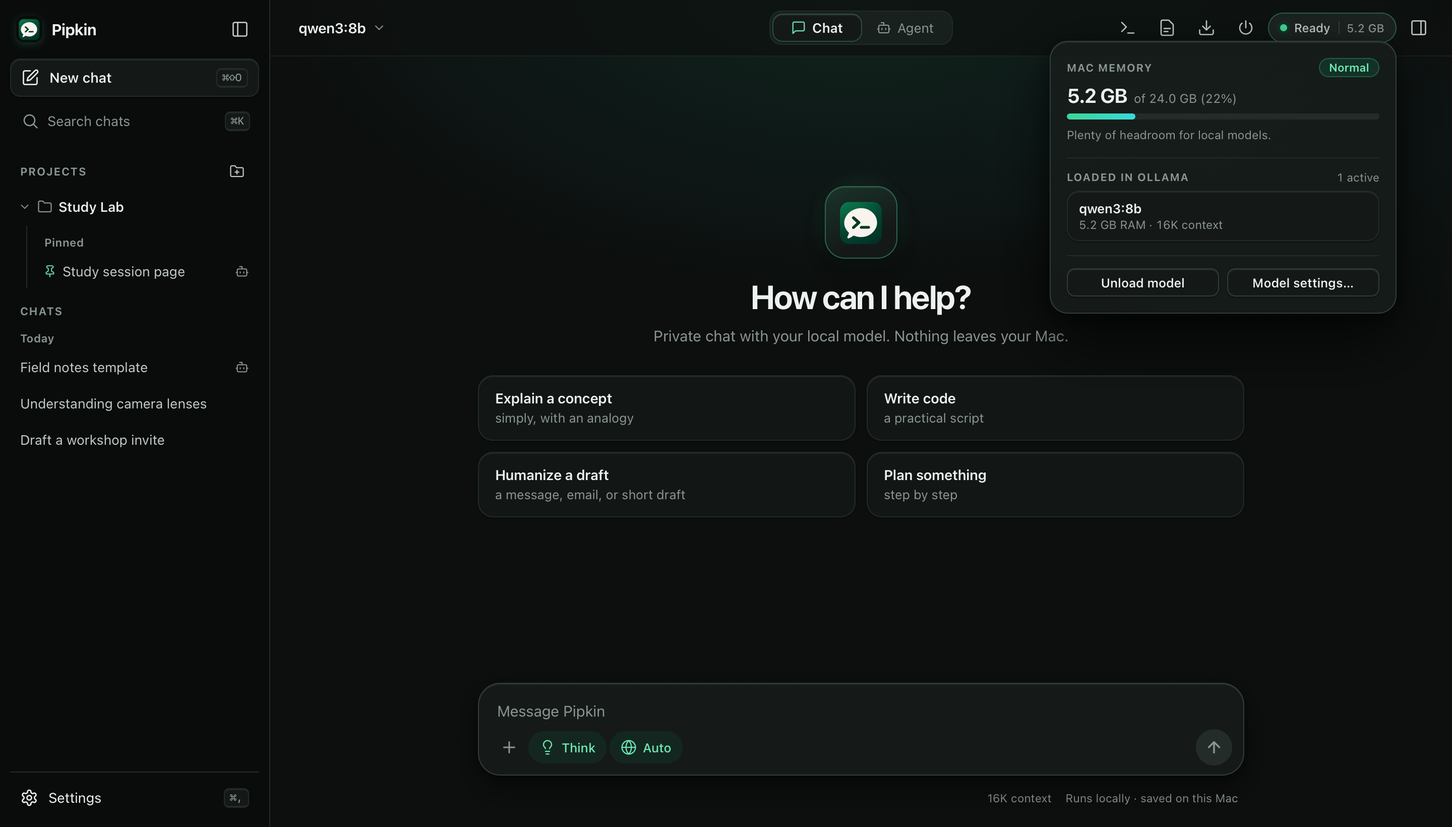
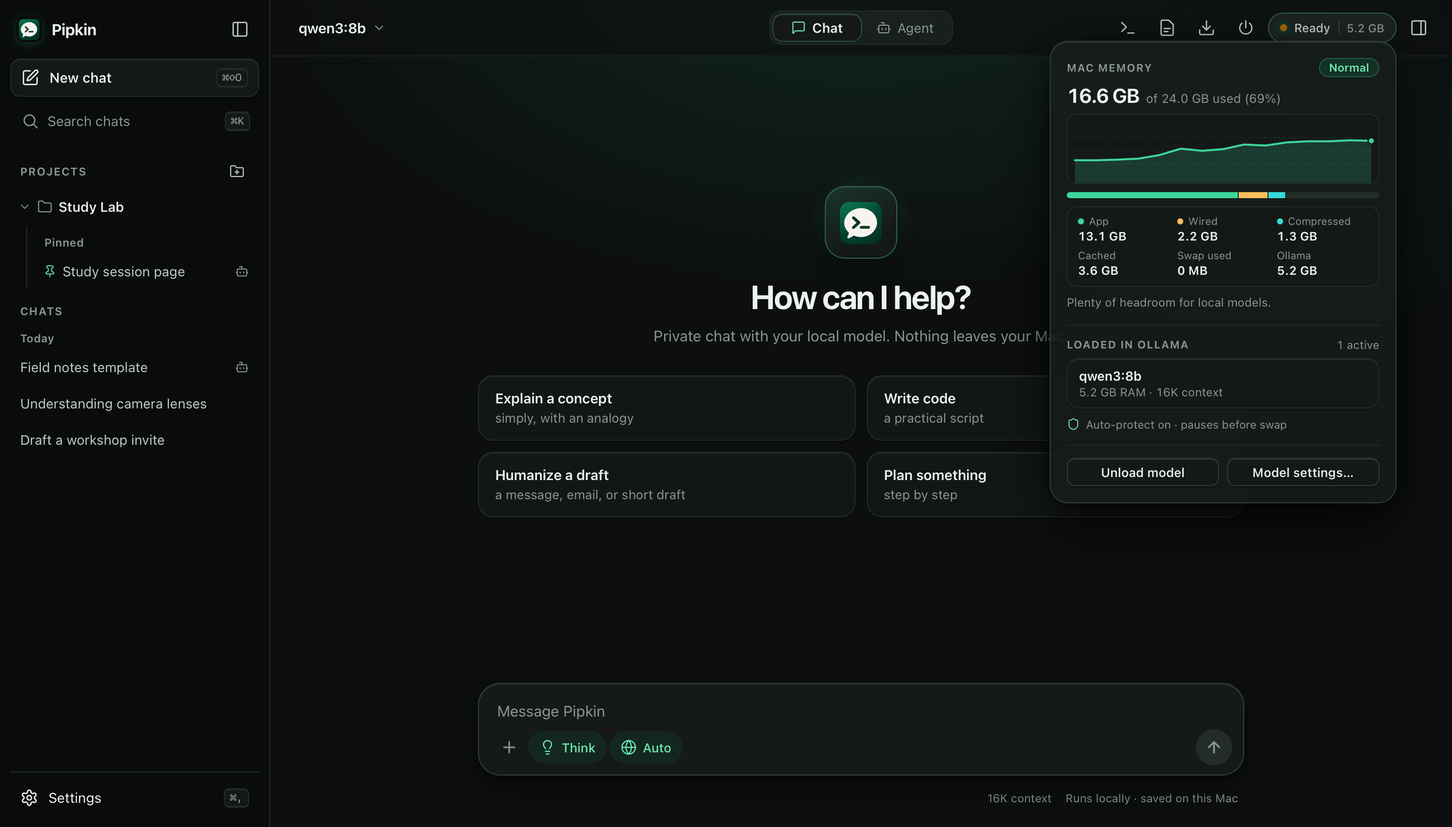
Refresh Pipkin v1.9 docs and fix Mac source packaging

diff --git a/README.md b/README.md
@@ -2,30 +2,38 @@
   <img src="dist/favicon.png" alt="Pipkin app icon" width="88" height="88">
 </p>
 <h1 align="center">Pipkin</h1>
-<p align="center"><strong>A local AI chat and workspace agent for the Mac you already have.</strong><br>
+<p align="center"><strong>Local AI chat and a workspace agent for macOS and Windows.</strong><br>
 Turn your own files into finished work with a model that runs on your machine.</p>
 <p align="center">
-  <a href="https://github.com/garywu000/pipkin/releases/tag/v1.2.0"><strong>Download v1.2</strong></a> ·
+  <a href="https://github.com/garywu000/pipkin/releases/tag/v1.9.0"><strong>Download v1.9.0</strong></a> ·
   <a href="#get-started">Get started</a> ·
   <a href="#chat-and-projects">Features</a> ·
   <a href="#try-site">Try /site</a> ·
-  <a href="#roadmap">Roadmap</a> ·
+  <a href="#version-history">Version history</a> ·
   <a href="#build-from-source">Build from source</a>
 </p>
 
-Pipkin is a native macOS app for [Ollama](https://ollama.com). Use **Chat** for questions, writing, and research. Use **Agent** to plan a task, work inside a folder you choose, and review the files it saves. Model inference runs on your Mac.
+Pipkin is a desktop app for [Ollama](https://ollama.com) on macOS and Windows. Use **Chat** for questions, writing, and research. Use **Agent** to plan a task, work inside a folder you choose, and review the files it saves. Local models run on your computer.
 
-![Pipkin v1.2 in the Emerald light theme, showing the Chat and Agent switch and suggested prompts](docs/screenshots/welcome.png)
+![Pipkin on macOS in the Emerald light theme, showing the Chat and Agent switch and suggested prompts](docs/screenshots/welcome.png)
 
 ## Get started
 
-1. Download [Pipkin v1.2](https://github.com/garywu000/pipkin/releases/tag/v1.2.0), unzip it, and open **Pipkin.app**. The download is an ad-hoc-signed preview for Apple silicon. If macOS blocks it, follow the [build instructions](#build-from-source).
-2. The first time you open Pipkin, a skippable setup screen lets you preview a look, pick your default mode, select an installed model, and set your preferences. The model step includes a guide for installing [Ollama for macOS](https://ollama.com/download/mac) and downloading your first model.
-3. Choose **Chat** or **Agent**. For Agent, choose a project folder and use **Ask first** to review edits and commands as the run progresses.
+### macOS
 
-For a first model on a 16 GB Mac, try `ollama pull qwen3:8b`. Agent works best with a model that supports tool calls.
+1. Download [Pipkin for Apple silicon](https://github.com/garywu000/pipkin/releases/download/v1.9.0/Pipkin-macos-arm64.zip), unzip it, and open **Pipkin.app**. This preview is ad-hoc signed. If macOS blocks the download, use the [source build](#build-from-source).
+2. Install [Ollama for macOS](https://ollama.com/download/mac) and download a local model. First-run setup has an Ollama guide if no model is installed.
 
-Pipkin loads the model when you send a request. To free model memory during a session, click the model status and choose **Unload model**. Quitting Pipkin also unloads its model.
+### Windows
+
+1. On an x64 PC running Windows 11 or Windows 10 22H2, install [Ollama for Windows](https://ollama.com/download/windows), [Python 3.9 or later](https://www.python.org/downloads/windows/) with **Add Python to PATH**, and the [.NET 8 Desktop Runtime](https://dotnet.microsoft.com/en-us/download/dotnet/8.0). Install the [WebView2 Runtime](https://developer.microsoft.com/en-us/microsoft-edge/webview2/) if it is missing.
+2. Download [Pipkin for Windows x64](https://github.com/garywu000/pipkin/releases/download/v1.9.0/Pipkin-windows-x64.zip), extract the full **Pipkin** folder, and double-click **Pipkin.exe**. Pipkin manages its own local server, so opening a terminal is only needed for tasks such as downloading a model.
+
+See the [Windows guide](windows/README.md) for details. The [Windows build and test run](https://github.com/garywu000/pipkin/actions/runs/45325460976) produced the ZIP attached to v1.9.0.
+
+### Choose a model and start
+
+For a first model, try `ollama pull qwen3:8b` if it fits your computer. Agent needs a model that supports tool calls. Choose **Chat** or **Agent** in Pipkin. For Agent, select a folder and use **Ask first** to review proposed changes. Pipkin loads the model on demand. Click the model status and choose **Unload model** to free model memory during a session.
 
 ### Customize your first launch
 
@@ -33,13 +41,13 @@ Choose **Light**, **Dark**, or **System** appearance, then preview **Emerald**, 
 
 ![Pipkin’s first-launch Choose your look screen with three appearance options and five color palettes](docs/screenshots/customize.png)
 
-The v1.2 redesign includes the animated setup intro, centered conversation and composer, smoother Chat and Agent transitions, updated controls, a cleaner Agent timeline, and a redesigned native browser tab strip and address bar. The main interface respects **Reduce Motion**.
+The setup walkthrough also lets you pick an installed model, choose your default Chat or Agent mode, and set personal preferences. On Windows, the app uses Windows shortcut labels and a matching Light or Dark title bar. Rebind shortcuts under **Settings → General → Keyboard shortcuts**.
 
 ## Chat and projects
 
 ![Pipkin Chat in the Ocean dark theme with a collapsible thinking summary, Markdown, and a rendered LaTeX equation](docs/screenshots/chat.png)
 
-- **Saved history.** Reopen chats after quitting. Search, pin, rename, or delete them from the sidebar. Edit an earlier prompt to branch the conversation. Drag the sidebar edge to resize it, and hover over a clipped title to see it scroll.
+- **Saved history.** Reopen chats after quitting. Search, pin, rename, or delete them from the sidebar. Edit an earlier prompt to branch the conversation. Drag the sidebar edge to resize it, and hover over a clipped title to see it scroll. Browse other chats during a live reply or Agent run and use **Return to live run** to jump back.
 - **Projects and context.** Group chats by dragging them into projects. Add shared project notes and give individual chats their own goals and instructions. Context compaction summarizes older turns when the window fills.
 - **Attachments and long pastes.** Attach files or photos from one picker, or drag them into the composer. Pastes over 10,000 characters become previewable text attachments. Pipkin keeps the full paste with the chat and labels any excerpt sent to the model. Photos require a model with vision support.
 - **Readable replies and citations.** Markdown renders during streaming, and LaTeX renders equations. Expand the collapsed thinking panel to see its duration and contents. When using web research or attached sources, open citations to see the linked page or source excerpt.
@@ -52,9 +60,11 @@ The v1.2 redesign includes the animated setup intro, centered conversation and c
 - **Plan, approve, and steer.** Follow the pinned checklist and progress updates while routine actions stay grouped in expandable batches. With **Ask first**, review each proposed edit or command. Send a steering note between steps, stop after the current step, or resume from a checkpoint.
 - **Build and open outputs.** Ask in plain language for a website, Word document, PowerPoint deck, or PDF. The Work result card links to saved files and displays completed checks and sources. HTML saves check local links, assets, and anchors during regular Agent work too.
 - **Undo per file or per run.** Undo restores edits or removes files created by the run. Pipkin checks for later changes first. If **Undo All** stops partway through, the result card shows the completed, failed, and skipped actions.
-- **Keep long runs moving.** Pipkin reuses recent tool results when possible, avoids repeating successful commands in an unchanged workspace, and detects repetitive generation. Model steps pause after three minutes without output or five minutes of active work. A run can work for up to ten minutes, excluding approval waits, and Pipkin prevents idle sleep while it runs.
+- **Working notes.** The Agent can save short findings and automatically track files and line ranges it has read. These notes survive context trimming and saved checkpoints. Open **Working notes** beneath the plan to see what the run kept.
+- **Optional two-model runs.** In **Settings → Model → Explorer model**, pick a smaller installed local model to map and read files on eligible workspace runs. Your primary model takes over for writing. This is off by default and can be compared with a single-model run using the [benchmark harness](benchmarks/README.md).
+- **Keep long runs moving.** Pipkin reuses tool results when possible, avoids repeating successful commands in an unchanged workspace, and detects repetitive generation. Model steps pause after three minutes without output or five minutes of active work. A run can work for up to ten minutes, excluding approval waits. Pipkin requests that the system stay awake while Agent works.
 
-Open the **Harness panel** with **⌘⇧P**. **Review** and **Open File** surface outputs from your workspace. **Terminal** docks a shell in the launcher. **Browser** opens a separate native pane, and **Chat Context** lets you edit the current chat’s goal and notes. The search box filters tools or accepts a URL or search query.
+Open the **Harness panel** with **⌘⇧P** on macOS or **Ctrl+Shift+P** on Windows. **Review** and **Open File** surface your workspace outputs. **Terminal** docks a shell and **Chat Context** opens the current chat’s goal and notes. The Mac app includes a native, tabbed **Browser** pane. Windows opens web links in your default browser.
 
 ![The light-theme Harness launcher next to a completed Agent run, with controls for reviewed files, terminal, browser, chat context, and settings](docs/screenshots/harness.png)
 
@@ -62,13 +72,15 @@ The Mac app can notify you when a run needs approval. **Sprig**, the optional de
 
 ## Model memory and token usage
 
-Click the model status in the top bar to see which models are loaded, their reported memory use, and current macOS memory pressure. Open model settings or unload the model from the same popover.
+Click the model status in the top bar to see memory pressure, loaded Ollama models, and their reported memory use. On macOS the graph also shows app, wired, compressed, and cached memory alongside swap use. Windows reports RAM and pagefile use. The popover provides **Unload model** and a shortcut to model settings.
 
-![Pipkin’s model status popover in dark mode showing loaded model memory, normal Mac memory pressure, and an Unload model button](docs/screenshots/model-memory.png)
+**Memory protection** is on by default. Pipkin can block a new model load when memory is already critical, pause Agent and save a checkpoint if pressure remains critical, and unload an idle model. The warning banner offers a memory graph and a suggested smaller context window when available.
+
+![Pipkin’s model status popover showing a RAM usage graph, system memory breakdown, and loaded Ollama model](docs/screenshots/model-memory.png)
 
 **Settings → Usage** shows the lifetime total of input and generated tokens reported by Ollama since tracking began. Deleting a chat leaves those totals intact.
 
-The screenshots show the v1.2 interface with sample chats, files, and model details.
+The screenshots show the macOS interface with sample chats, files, and model details.
 
 ## Try /site
 
@@ -86,60 +98,55 @@ Pipkin plans the work, shows the proposed `index.html` as a diff for your approv
 > [!NOTE]
 > Pipkin detects straightforward site requests and renders a first page from a checked content plan. Work’s editor handles interactive sites, larger projects, and updates to existing pages. You can also select `/site` from the slash menu.
 
-## Create a document or presentation
+## Create a document, study guide, or presentation
 
-Select an Agent workspace, then ask for the output directly.
+Select an Agent workspace and attach or place your source material in the folder. Then ask for the output directly.
 
 - “Create a Word report named `meeting-notes.docx` from the attached notes.”
 - “Make a five-slide PowerPoint from `brief.md`.”
 - “Create a printable PDF handout from `brief.md`.”
+- “Turn the attached syllabus into a study guide with review questions.”
+- “Use this PDF packet to make an interactive checklist of requirements and deadlines.”
 
 Pipkin previews the content for approval in **Ask first**, saves the file, and shows a clickable output. `/word`, `/powerpoint`, and `/pdf` are optional shortcuts. Office exports use editable text and templates. The PowerPoint template supports one to nine slides. Check the names, numbers, and wording in the preview before approving.
 
+Use `/study-guide` or `/checklist` for navigable HTML with a contents list and a source index. Each section cites its evidence. For PDF sources, links open the relevant page, and checklist items are interactive. Windows can extract text from supported PDFs and render new PDFs with built-in Python support. Scanned pages need a text or OCR layer for document extraction.
+
 ## Privacy and permissions
 
-- Model inference runs locally through Ollama. Chat history, settings, and token totals are stored on your Mac.
-- Web search, page fetches, and the built-in browser contact the sites involved. Use the web control to turn automatic search off.
-- Agent file operations stay inside the workspace folder you select. Approved shell commands run with your macOS account’s permissions. Use **Ask first** to review those commands.
+- Local model inference, chat history, settings, and token totals stay on your computer. Web search, page fetches, and the browser contact the sites involved.
+- Agent file tools are scoped to your selected workspace. On Windows, these tools reject paths through symbolic links and junctions, drive escapes, and reserved device names.
+- **Shell commands are off by default.** Enable them in **Settings → Agent → Allow shell commands**. Agent commands require approval and show a scope preview. The macOS workspace command runner restricts writes to the workspace and a temporary directory and blocks network access. On Windows, approved PowerShell workspace commands start in the workspace with a reduced environment and use your Windows account’s file and network permissions.
 
 See [SECURITY.md](SECURITY.md) to report a vulnerability.
 
+## Version history
+
+| Version | What changed |
+| --- | --- |
+| [v1.9.0](https://github.com/garywu000/pipkin/releases/tag/v1.9.0) | Windows gained workspace Agent support, native folder selection, file verification and undo, PDF reading and writing, PowerShell, Windows shortcut labels, and taskbar attention indicators. The published Windows ZIP includes follow-up fixes for checkpoint saving, SQLite locking, and PowerShell output handling. |
+| [v1.8.0](https://github.com/garywu000/pipkin/releases/tag/v1.8.0) | First Windows Chat preview using WebView2. A shared platform layer handles app data, model discovery, memory, and native file opening. Added Windows packaging and CI. |
+| [v1.7.1](https://github.com/garywu000/pipkin/releases/tag/v1.7.1) | Custom keyboard shortcuts with conflict detection and reset, Settings layout fixes, local-only Explorer selection, and protection against deleting a chat while its run is active. |
+| [v1.7.0](https://github.com/garywu000/pipkin/releases/tag/v1.7.0) | Browse other chats during a live run, return to an active run from the banner, and optionally use an Explorer model. Benchmarks gained `--explore-model`. |
+| [v1.6.1](https://github.com/garywu000/pipkin/releases/tag/v1.6.1) | Added the live Mac RAM graph, an Activity Monitor-style memory breakdown, and a **Memory graph** shortcut in the warning banner. |
+| [v1.6.0](https://github.com/garywu000/pipkin/releases/tag/v1.6.0) | Added document-first study guides and interactive checklists with per-section citations, PDF page links, and local link verification. |
+| [v1.5.0](https://github.com/garywu000/pipkin/releases/tag/v1.5.0) | Separated shell access into its own opt-in. Added macOS workspace command isolation, a reduced shell environment, and approval cards that preview the command’s scope. |
+| [v1.4.0](https://github.com/garywu000/pipkin/releases/tag/v1.4.0) | Added working notes and a file-read ledger that survive context trimming and resuming. |
+| [v1.3.0](https://github.com/garywu000/pipkin/releases/tag/v1.3.0) | Added a guard against starting new model loads under critical memory pressure, the memory warning banner, and stricter native browser link handling. Included the v1.2.1 development changes for pausing runs, unloading idle models, and recommending context sizes. |
+| [v1.2.0](https://github.com/garywu000/pipkin/releases/tag/v1.2.0) | Redesigned the Mac interface with five palettes and first-launch customization. Added the Harness launcher, live model memory display, and Undo All. |
+
 ## Roadmap
 
-Pipkin's bet: the most useful local agent is the one that **finishes**. Each release is judged on how often a mid-size model completes a real task on an everyday Mac, how long that takes, and whether the Mac stays responsive.
-
-### v1.1: reliable deliverables (released)
-
-- **Staged file creation** for sites, Word, PowerPoint, and PDF, with rendering and file checks handled by Pipkin.
-- **A Work benchmark.** [Six fixture tasks](benchmarks/README.md) graded on the files they leave on disk, with time to first verified output, total time, and memory use.
-- **Result cards you can trust and undo**, plus plan-first runs and recovery from stuck actions.
-
-### After v1.2
-
-- **Signed and notarized builds**, a clean-Mac install guide, and a chosen license.
-- **Live benchmark comparisons** with matched model, context, and Mac settings, published with the results.
-
-### v2: Windows, long documents, and long runs
-
-- **Windows app.** Start with local Chat, then add folder-based Agent work with approvals and undo.
-- **Document-first workflows.** Drop in a PDF packet, syllabus, or brief and get a navigable site, a study guide, or a checklist, with every claim linked to its page.
-- **Working memory that survives trimming.** The agent keeps short notes of what it has learned, so it stops re-reading files it already read.
-- **Memory-pressure awareness.** Pipkin shows when the Mac is under pressure and pauses or unloads the model before the system starts swapping.
-- **Two-model runs.** A small model explores and a larger one writes, but only if the benchmark shows it finishes more tasks.
-- **Safer shell access.** Commands become a separate opt-in, run in an isolated environment, and come with a clear list of what they may touch.
-
-### v3: connected and extensible
-
-- **Read-first connectors** for GitHub, Google Drive, and Calendar: summarize, plan, and draft locally. Writing back always needs approval.
-- **Shareable skills.** A small file format for workflows like `/site`, with their own checks, so people can publish and install them.
-- **Scheduled and background tasks**, such as "every Friday, turn this week's notes into a review sheet", with a summary waiting for you.
-- **Pick up where you left off** on another Mac, without a cloud account.
+- **Distribution.** Signed and notarized Mac builds, Windows installer improvements, and a project license.
+- **Benchmark comparisons.** Publish repeated trials with the same hardware, model, context, and task when comparing single-model and Explorer runs.
+- **Connected accounts.** Read-first access to GitHub and Google Workspace, with reviewed writes.
+- **Extensibility.** Shareable skills, scheduled work, and moving conversations between devices.
 
 Have an idea or a task Pipkin should finish? [Open an issue](https://github.com/garywu000/pipkin/issues).
 
 ## Build from source
 
-The app targets macOS 12 or later. The v1.2 download was built and tested on Apple silicon. You need the Xcode Command Line Tools and Ollama.
+On macOS, install the Xcode Command Line Tools and Ollama. On Windows, follow the [Windows build guide](windows/README.md).
 
 ~~~sh
 git clone https://github.com/garywu000/pipkin.git
@@ -161,6 +168,8 @@ PYTHONDONTWRITEBYTECODE=1 python3 -m unittest discover -s tests
 | [`shell/`](shell/) | Native window, browser pane, Sprig, and macOS packaging |
 | [`dist/`](dist/) | Chat UI, skill menu, terminal panel, and Agent timeline |
 | [`server.py`](server.py) | Loopback server, Ollama session, terminal, and approvals |
+| [`platform_os.py`](platform_os.py) | Platform-specific data paths, file opening, memory, and PDF support |
+| [`windows/`](windows/) | Windows WebView2 host and ZIP packaging |
 | [`agent.py`](agent.py) | Agent loop, workspace tools, context management, recovery, undo, and site checks |
 | [`artifacts.py`](artifacts.py) | Content plans and rendering for sites, Word, PowerPoint, and PDF |
 | [`benchmarks/`](benchmarks/) | Work benchmark tasks, graders, and recorded baselines |

diff --git a/windows/README.md b/windows/README.md
@@ -1,17 +1,18 @@
 # Pipkin for Windows (Local Chat & Workspace Agent)
 
-Pipkin on Windows uses **Microsoft Edge WebView2** (built into Windows 11 and most Windows 10 PCs) wrapped in a lightweight C# desktop shell, running the same local Python backend (`server.py`, `agent.py`, `artifacts.py`) and web UI (`dist/`) as the macOS app.
+Pipkin on Windows uses **Microsoft Edge WebView2** in a C# desktop shell and shares its local Python backend and app interface with macOS.
 
 ## What You Need on Windows
-1. **Windows 10 or Windows 11** (64-bit)
+1. **Windows 10 22H2 or Windows 11** (x64)
 2. **Ollama for Windows** — install from [ollama.com](https://ollama.com/download/windows) and pull at least one model (e.g. `ollama pull qwen3:8b`).
 3. **Python 3.9+** — install from [python.org](https://www.python.org/downloads/windows/) (check **"Add python.exe to PATH"** during setup).
-4. **.NET 8 Desktop Runtime** — required to launch `Pipkin.exe` (or included if you install the .NET 8 SDK).
+4. **[.NET 8 Desktop Runtime](https://dotnet.microsoft.com/en-us/download/dotnet/8.0)** for x64.
+5. **[WebView2 Runtime](https://developer.microsoft.com/en-us/microsoft-edge/webview2/)** if it is missing.
 
 ## Running a Built Zip (No Coding Required)
-1. Download `Pipkin-windows-x64.zip` (from GitHub Actions or Releases) and extract the `Pipkin` folder.
+1. Download [Pipkin-windows-x64.zip](https://github.com/garywu000/pipkin/releases/download/v1.9.0/Pipkin-windows-x64.zip) and extract the full `Pipkin` folder.
 2. Double-click **`Pipkin.exe`**.
-3. Pipkin starts its local server silently on `http://127.0.0.1:8765`, opens the app window, and cleanly stops the server when you close it.
+3. Pipkin starts its local server, opens the app window, and stops the server it started when you close it. First-launch setup lets you choose an appearance, model, and default mode.
 
 ## Building on a Windows PC
 Install the [.NET 8 SDK](https://dotnet.microsoft.com/download/dotnet/8.0), then run in PowerShell from the repo root:
@@ -23,11 +24,13 @@ powershell -ExecutionPolicy Bypass -File windows\build-windows.ps1
 This outputs `windows\dist\Pipkin-windows-x64.zip`.
 
 ## Building & Testing Without a Windows PC (GitHub Actions)
-Push to GitHub and run the **Build Windows Package** workflow (`.github/workflows/build-windows.yml`) from the **Actions** tab. GitHub's `windows-latest` runner executes the full Python unit test suite and agent benchmarks directly on real Windows, compiles `Pipkin.exe`, and uploads a ready-to-run `Pipkin-windows-x64.zip` artifact.
+Run **Build Windows Package** from the **Actions** tab. The Windows runner checks the source, runs the unit tests and scripted Agent benchmarks, then uploads `Pipkin-windows-x64.zip`. The [successful v1.9.0 build](https://github.com/garywu000/pipkin/actions/runs/45325460976) includes the Windows checkpoint, SQLite, and PowerShell fixes.
 
-## Included in v1.9.0 (Full Windows Parity)
+## Included in v1.9.0
 - **Local Chat & Workspace Agent:** Read, search, edit, diff, undo, and checkpoint files safely inside a chosen Windows folder (blocks symlinks, NTFS junctions, drive escapes, and reserved device names).
 - **Native Windows Folder Picker:** Opens Windows' native folder chooser right in front of the Pipkin window.
-- **Zero-Dependency PDF Support:** Read PDFs (with page citations) and generate `/pdf`, `/study-guide`, `/checklist`, `/word`, and `/slides` deliverables on Windows with bare Python (and automatically uses `pypdf`/`PyMuPDF` if installed).
-- **Shell & Terminal Parity:** Opt-in isolated PowerShell command runner with approval cards and sanitized environment, plus built-in PowerShell terminal panel.
+- **Documents and PDFs.** Extract text from supported PDFs with page citations and generate PDFs, HTML study guides and checklists, Word documents, and PowerPoint decks. Pipkin can use optional PDF libraries if they are installed.
+- **PowerShell.** The app has a built-in PowerShell terminal. Agent commands are opt-in and require approval. Workspace commands start in the workspace with a reduced environment and use your Windows account’s file and network permissions.
 - **Native Windows UI:** Replaces macOS wording and `⌘`/`⌥`/`⇧` symbols with Windows `Ctrl`/`Alt`/`Shift` shortcuts, Windows copy, Dark/Light titlebar sync, and taskbar attention flashing.
+
+Pipkin opens web links in your default Windows browser. The integrated tabbed Browser pane and Sprig are Mac features.

diff --git a/benchmarks/README.md b/benchmarks/README.md
@@ -4,7 +4,7 @@ Run the same six tasks against Pipkin’s Work API and grade the files in each t
 
 ## Run the suite
 
-Run these commands from the repository root on an Apple silicon Mac. The PDF case uses Pipkin’s bundled PDFKit helper.
+Run these commands from the repository root. The scripted suite runs on macOS and Windows. The PDF case can use the native PDFKit helper on macOS or Pipkin’s Python PDF reader on Windows.
 
 ~~~sh
 python3 benchmarks/run.py --report build/benchmarks/replay.json
@@ -18,6 +18,8 @@ python3 benchmarks/run.py --model 'your-installed-model' --context 16384 \
 ~~~
 
 Omit `--case` for all six tasks. Add `--repeat 3` to take three measurements per task. Start with an idle Ollama server. Live mode checks available memory before loading, unloads the model between trials, and keeps it warm across the two phases of the resume case.
+
+To compare an Explorer run with a single-model run, repeat the same live command with `--explore-model 'your-smaller-installed-model'` and a different report path. The Explorer is used for eligible workspace steps. Keep the primary model, context, task, and hardware fixed.
 
 | Case | What passes |
 | --- | --- |
